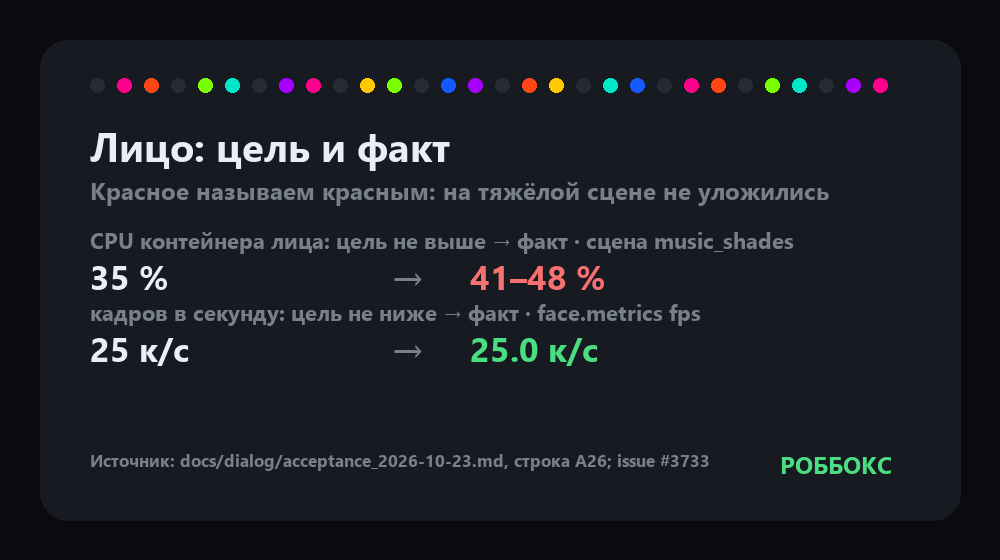
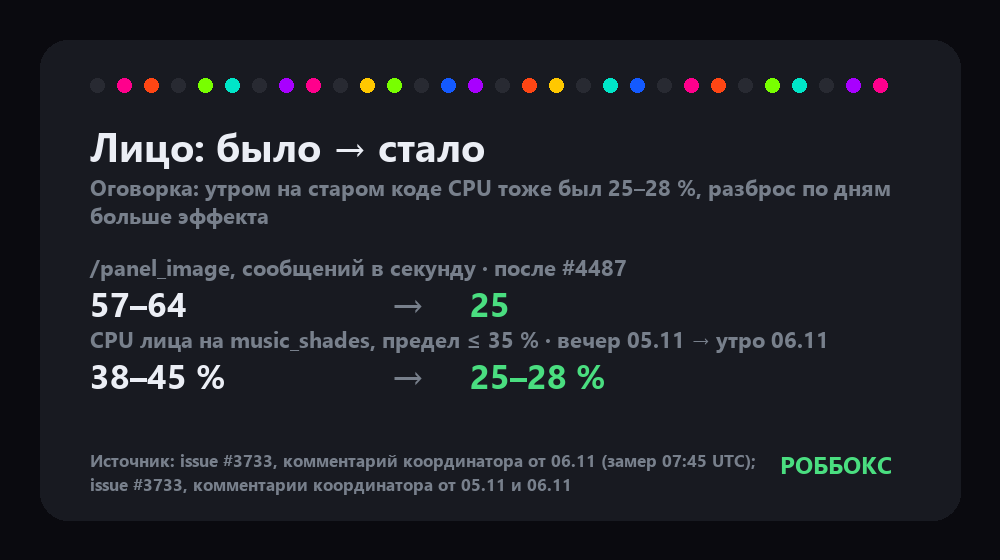
docs(channel): актуальные факты — клички лиц, бипер, LED 57-64 → 25, марафон без счёта; закреп approved

diff --git a/tests/unit/scripts/test_telegram_channel.py b/tests/unit/scripts/test_telegram_channel.py
@@ -136,11 +136,14 @@ def test_validate_caption_limit_and_html(queue, tmp_path):
     assert any("лимит" in p for p in problems) and any("div" in p for p in problems)
 
 
-def test_real_queue_is_valid_and_all_draft():
+def test_real_queue_is_valid_and_only_pin_may_be_approved():
     posts = lib.load_queue(REPO / "docs" / "channel" / "queue")
     assert 8 <= len(posts) <= 11
     for post in posts:
-        assert post.status == "draft", post.name
+        if post.name.startswith("001-"):  # закреп одобрен Шифу к боевому запуску channel_setup.py
+            assert post.status in ("draft", "approved")
+        else:
+            assert post.status == "draft", post.name
         problems = lib.validate(post, REPO)
         if post.pending:  # заглушка медиа: единственное, что допустимо — «не готово» и отсутствие файла
             assert all("не готово" in p or "нет файла" in p for p in problems), (post.name, problems)
@@ -161,9 +164,39 @@ def test_setup_dry_run_steps_and_limits(capsys):
     assert len(profile["description"]) <= 255
 
 
-def test_setup_refuses_live_without_approved_pin(capsys):
-    rc = channel_setup.run(REPO, lambda *a: pytest.fail("сеть без одобрения"), dry_run=False)
+def test_setup_refuses_live_without_approved_pin(tmp_path):
+    import shutil
+
+    shutil.copytree(REPO / "docs" / "channel", tmp_path / "docs" / "channel")
+    shutil.copytree(REPO / "docs" / "assets" / "animations", tmp_path / "docs" / "assets" / "animations")
+    pin = tmp_path / "docs" / "channel" / "queue" / "001-hello-pin.md"
+    pin.write_text(pin.read_text(encoding="utf-8").replace("status: approved", "status: draft", 1), encoding="utf-8")
+    rc = channel_setup.run(tmp_path, lambda *a: pytest.fail("сеть без одобрения"), dry_run=False, out=lambda s: None)
     assert rc == 1
+
+
+def test_setup_live_runs_all_steps_and_marks_pin_posted(tmp_path):
+    import shutil
+
+    shutil.copytree(REPO / "docs" / "channel", tmp_path / "docs" / "channel")
+    shutil.copytree(REPO / "docs" / "assets" / "animations", tmp_path / "docs" / "assets" / "animations")
+    calls = []
+
+    def transport(method, params, media):
+        calls.append((method, params))
+        return {"ok": True, "message_id": 77}
+
+    assert channel_setup.run(tmp_path, transport, dry_run=False, out=lambda s: None) == 0
+    assert [c[0] for c in calls] == [
+        "setChatPhoto",
+        "setChatTitle",
+        "setChatDescription",
+        "sendAnimation",
+        "pinChatMessage",
+    ]
+    assert calls[-1][1]["message_id"] == 77
+    pin = lib.parse_post(tmp_path / "docs" / "channel" / "queue" / "001-hello-pin.md")
+    assert (pin.status, pin.message_id) == ("posted", 77)
 
 
 def test_avatar_is_640_square():

diff --git a/scripts/telegram/infographic.py b/scripts/telegram/infographic.py
@@ -106,7 +106,8 @@ def base_canvas(spec: dict, size: tuple):
         d.ellipse([x, 78, x + 14, 92], fill=RAINBOW[c % len(RAINBOW)] if c % 3 else (40, 42, 50))
     d.text((MARGIN, 118), spec["title"], font=font(40), fill=TEXT)
     if spec.get("subtitle"):
-        d.text((MARGIN, 174), spec["subtitle"], font=font(24), fill=DIM)
+        for i, ln in enumerate(wrap(d, spec["subtitle"], font(22), w - 2 * MARGIN)[:2]):
+            d.text((MARGIN, 172 + i * 28), ln, font=font(22), fill=DIM)
     src = "Источник: " + "; ".join(sources_of(spec))
     sf = font(17)
     lines = wrap(d, src, sf, w - 2 * MARGIN - 150)[:2]
@@ -165,7 +166,7 @@ def draw_nodes(d, spec, size, reveal):
 def draw_before_after(d, spec, size, reveal):
     for i, p in enumerate(spec["pairs"]):
         a = reveal - i
-        y = 225 + i * 72
+        y = 252 + i * 72
         label = p["label"] + (" · " + p["note"] if p.get("note") else "")
         d.text((MARGIN, y), label, font=font(22), fill=mix(DIM, a))
         d.text((MARGIN, y + 28), str(p["before"]), font=font(34), fill=mix(TEXT, a))

diff --git a/docs/process/telegram-channel.md b/docs/process/telegram-channel.md
@@ -81,7 +81,7 @@
 2. Красное называем красным. Упал марафон, откатили фикс, проверка на роботе не сделана — пишем так.
 3. Помечаем, откуда цифра: симулятор или настоящий робот. Результат в симуляторе не выдаём за результат на роботе.
 4. План не выдаём за факт. «В плане», «кода нет», «ещё не гоняли» — нормальные слова.
-5. Не пишем числа «N из M» без источника в репо. Пример из практики: «120/132» из черновика не нашёл подтверждения и был снят.
+5. Не пишем числа «N из M» без источника: файл репо, карточка или run_id. Пример: счёт марафона «120/132» не подтвердился в карточках #4478–#4481, поэтому в посте 008 — только описание сценария и честный статус «красный».
 6. Иллюстрацию называем иллюстрацией (например, анимация набора 381 светодиода — не запись панелей).
 7. В карточке поста, при сомнении, — ссылка на ADR или файл в репо.
 
@@ -148,7 +148,7 @@
 
 Общие поля: `title`, `subtitle`. **У каждой цифры есть `source`** (файл репо с разделом или issue); без него генератор
 отказывается рисовать (`SpecError`). Источник печатается в подвале картинки. Числа берём из репо и прогонов, на память не вписываем:
-например, «64 → 25 сообщений/с» для светодиодной матрицы источника в репо не нашлось, поэтому такой картинки нет.
+источник может быть и карточкой: «57–64 → 25 сообщений/с» и «CPU 25–28 %» для лица взяты из комментариев issue #3733 (с оговоркой оттуда же о разбросе между днями).
 
 ## Оформление канала
 

diff --git a/docs/channel/queue/006-nicknames.md b/docs/channel/queue/006-nicknames.md
@@ -7,10 +7,12 @@ hashtags: #люди
 ---
 🏷 <b>Кличка вместо «человек без имени»</b>
 
-Решение Шифу: если человек не представился — это нормально, у него будет кличка. Имя называет сам человек, а кличка — внутреннее имя робота для памяти, оно остаётся и после знакомства.
+Решение Шифу: если человек не представился — это нормально, у него будет кличка. Имя называет сам человек, а кличка — внутреннее имя робота для памяти: она остаётся и после знакомства, а имя заменяет её в обращении.
 
-Как есть сейчас: незнакомому голосу выдаётся словарная кличка вроде «Странник-4». Кличка «по поведению» от LLM со времён диалога v2 не работает, а кличка для лица пока записана как план в ADR-0164 — кода нет.
+Как это устроено сейчас (код <code>face_epithet.py</code>, ADR-0164, влито 05.11):
+• голосу сразу выдаётся словарная кличка вроде «Странник-4»;
+• новому лицу — тоже: сразу словарная, а в режиме мастерской модель ещё и придумывает кличку по внешности. Модель зовём только по событиям (рождение лица, новая встреча), не по кадрам, и с потолком вызовов в час.
 
-Лица людей в канале не публикуем, поэтому — без примеров и фото.
+Лица людей и клички реальных людей в канале не публикуем, поэтому — без примеров и фото.
 
 #люди

diff --git a/docs/channel/queue/008-night-marathon.md b/docs/channel/queue/008-night-marathon.md
@@ -7,8 +7,8 @@ hashtags: #тесты #честность
 ---
 🌙 <b>Ночной марафон: одна история вместо списка команд</b>
 
-Сквозной тест голосовых функций робота — 131 шаг, 12 актов, одна ночная история. Три правила: ничего не выключаем, пока не включили; каждый акт возвращает робота в исходное состояние; состояние между актами переносится намеренно (акт 9 просит рецепт борща, а лук робот должен вспомнить из акта 2).
+Сквозной тест голосовых функций робота — сценарий из 131 шага и 12 актов, одна ночная история. Это описание сценария, а не результат прогона. Три правила: ничего не выключаем, пока не включили; каждый акт возвращает робота в исходное состояние; состояние между актами переносится намеренно (акт 9 просит рецепт борща, а лук робот должен вспомнить из акта 2).
 
-Честный статус: полный прогон на диалоге v2 был 23.10. После правок судейства шагов сценарии живьём ещё не гонялись, поэтому красивых «N из 131» не будет, пока их нет.
+Честный статус: последние прогоны М14 (06.11) закончились красными, часть багов уже записана карточками (#4478, #4479, #4480). Красный марафон — не стыд, а работа: пишем счёт, когда он подтверждён логами.
 
 #тесты #честность

diff --git a/docs/channel/queue/005-safety-zone.md b/docs/channel/queue/005-safety-zone.md
@@ -7,7 +7,7 @@ hashtags: #безопасность
 ---
 🚧 <b>Зона безопасности по лидару</b>
 
-Когда робот едет и что-то оказывается слишком близко, включается «внимание»: мигалка и писк (с 40 см). Совсем близко (с 20 см) — стоп, писк и голосовое «Осторожно!». Пока робот стоит, зона молчит: стоящий робот людям не угрожает.
+Когда робот едет и что-то оказывается слишком близко, включается «внимание»: мигалка и писк бипера заднего хода, как у грузовика (с 40 см; решение Шифу 05.11). Совсем близко (с 20 см) — стоп, писк и голосовое «Осторожно!». Пока робот стоит, зона молчит: стоящий робот людям не угрожает.
 
 Это в коде и тестах; в HIL-прогонах звук защиты можно выключить флагом. Живую проверку у стены ещё предстоит сделать вместе с Шифу — расскажем, как пройдёт, даже если не пройдёт.
 

diff --git a/docs/channel/queue/003-led-face.md b/docs/channel/queue/003-led-face.md
@@ -1,6 +1,7 @@
 ---
 status: draft
 media: docs/channel/media/led381.gif
+extra_media: docs/channel/media/face-cpu.png
 not_before: 2026-11-12T10:00:00Z
 message_id:
 hashtags: #железо #opensource
@@ -12,5 +13,7 @@ hashtags: #железо #opensource
 Анимации лица лежат в пакете <code>rob_box_animations</code>: в репозитории 33 GIF — от «счастлив» и «задумался» до мигалок и сирен.
 
 Анимация выше — иллюстрация набора 381 точки, а не запись панелей.
+
+Из рабочего: лицо слало картинки панелей 57–64 раза в секунду, а теперь 25 (после правки #4487). Нагрузка на музыкальной сцене — 25–28 % при пределе 35 %. Оговорка: утренний замер на старом коде тоже дал 25–28 %, а накануне вечером было 38–45 %; разброс между днями больше эффекта правки, причину вечерних цифр мы не нашли. Сообщений стало заметно меньше, а вот «стало быстрее» без оговорок не скажем.
 
 #железо #opensource

diff --git a/docs/channel/queue/001-hello-pin.md b/docs/channel/queue/001-hello-pin.md
@@ -1,5 +1,5 @@
 ---
-status: draft
+status: approved
 media: docs/assets/animations/talk_happy.gif
 not_before: 2026-11-07T10:00:00Z
 message_id:
@@ -11,7 +11,7 @@ hashtags: #роббокс
 
 Что в проекте уже есть:
 🗣 голосовой диалог с вейк-словом «Робот…»
-👀 распознавание лиц и голосов (кличка незнакомцу: для голоса уже выдаётся словарная, для лица — в плане, ADR-0164)
+👀 распознавание лиц и голосов; незнакомцу достаётся кличка — и голосу, и лицу (лицу по внешности, ADR-0164)
 🗺 навигация Nav2 с картами; сейчас её настраиваем в симуляторе Gazebo
 🚧 защита по лидару: в движении мигалка и писк, а совсем близко — стоп
 🎧 живая музыка и DJ-сеты на SuperCollider
